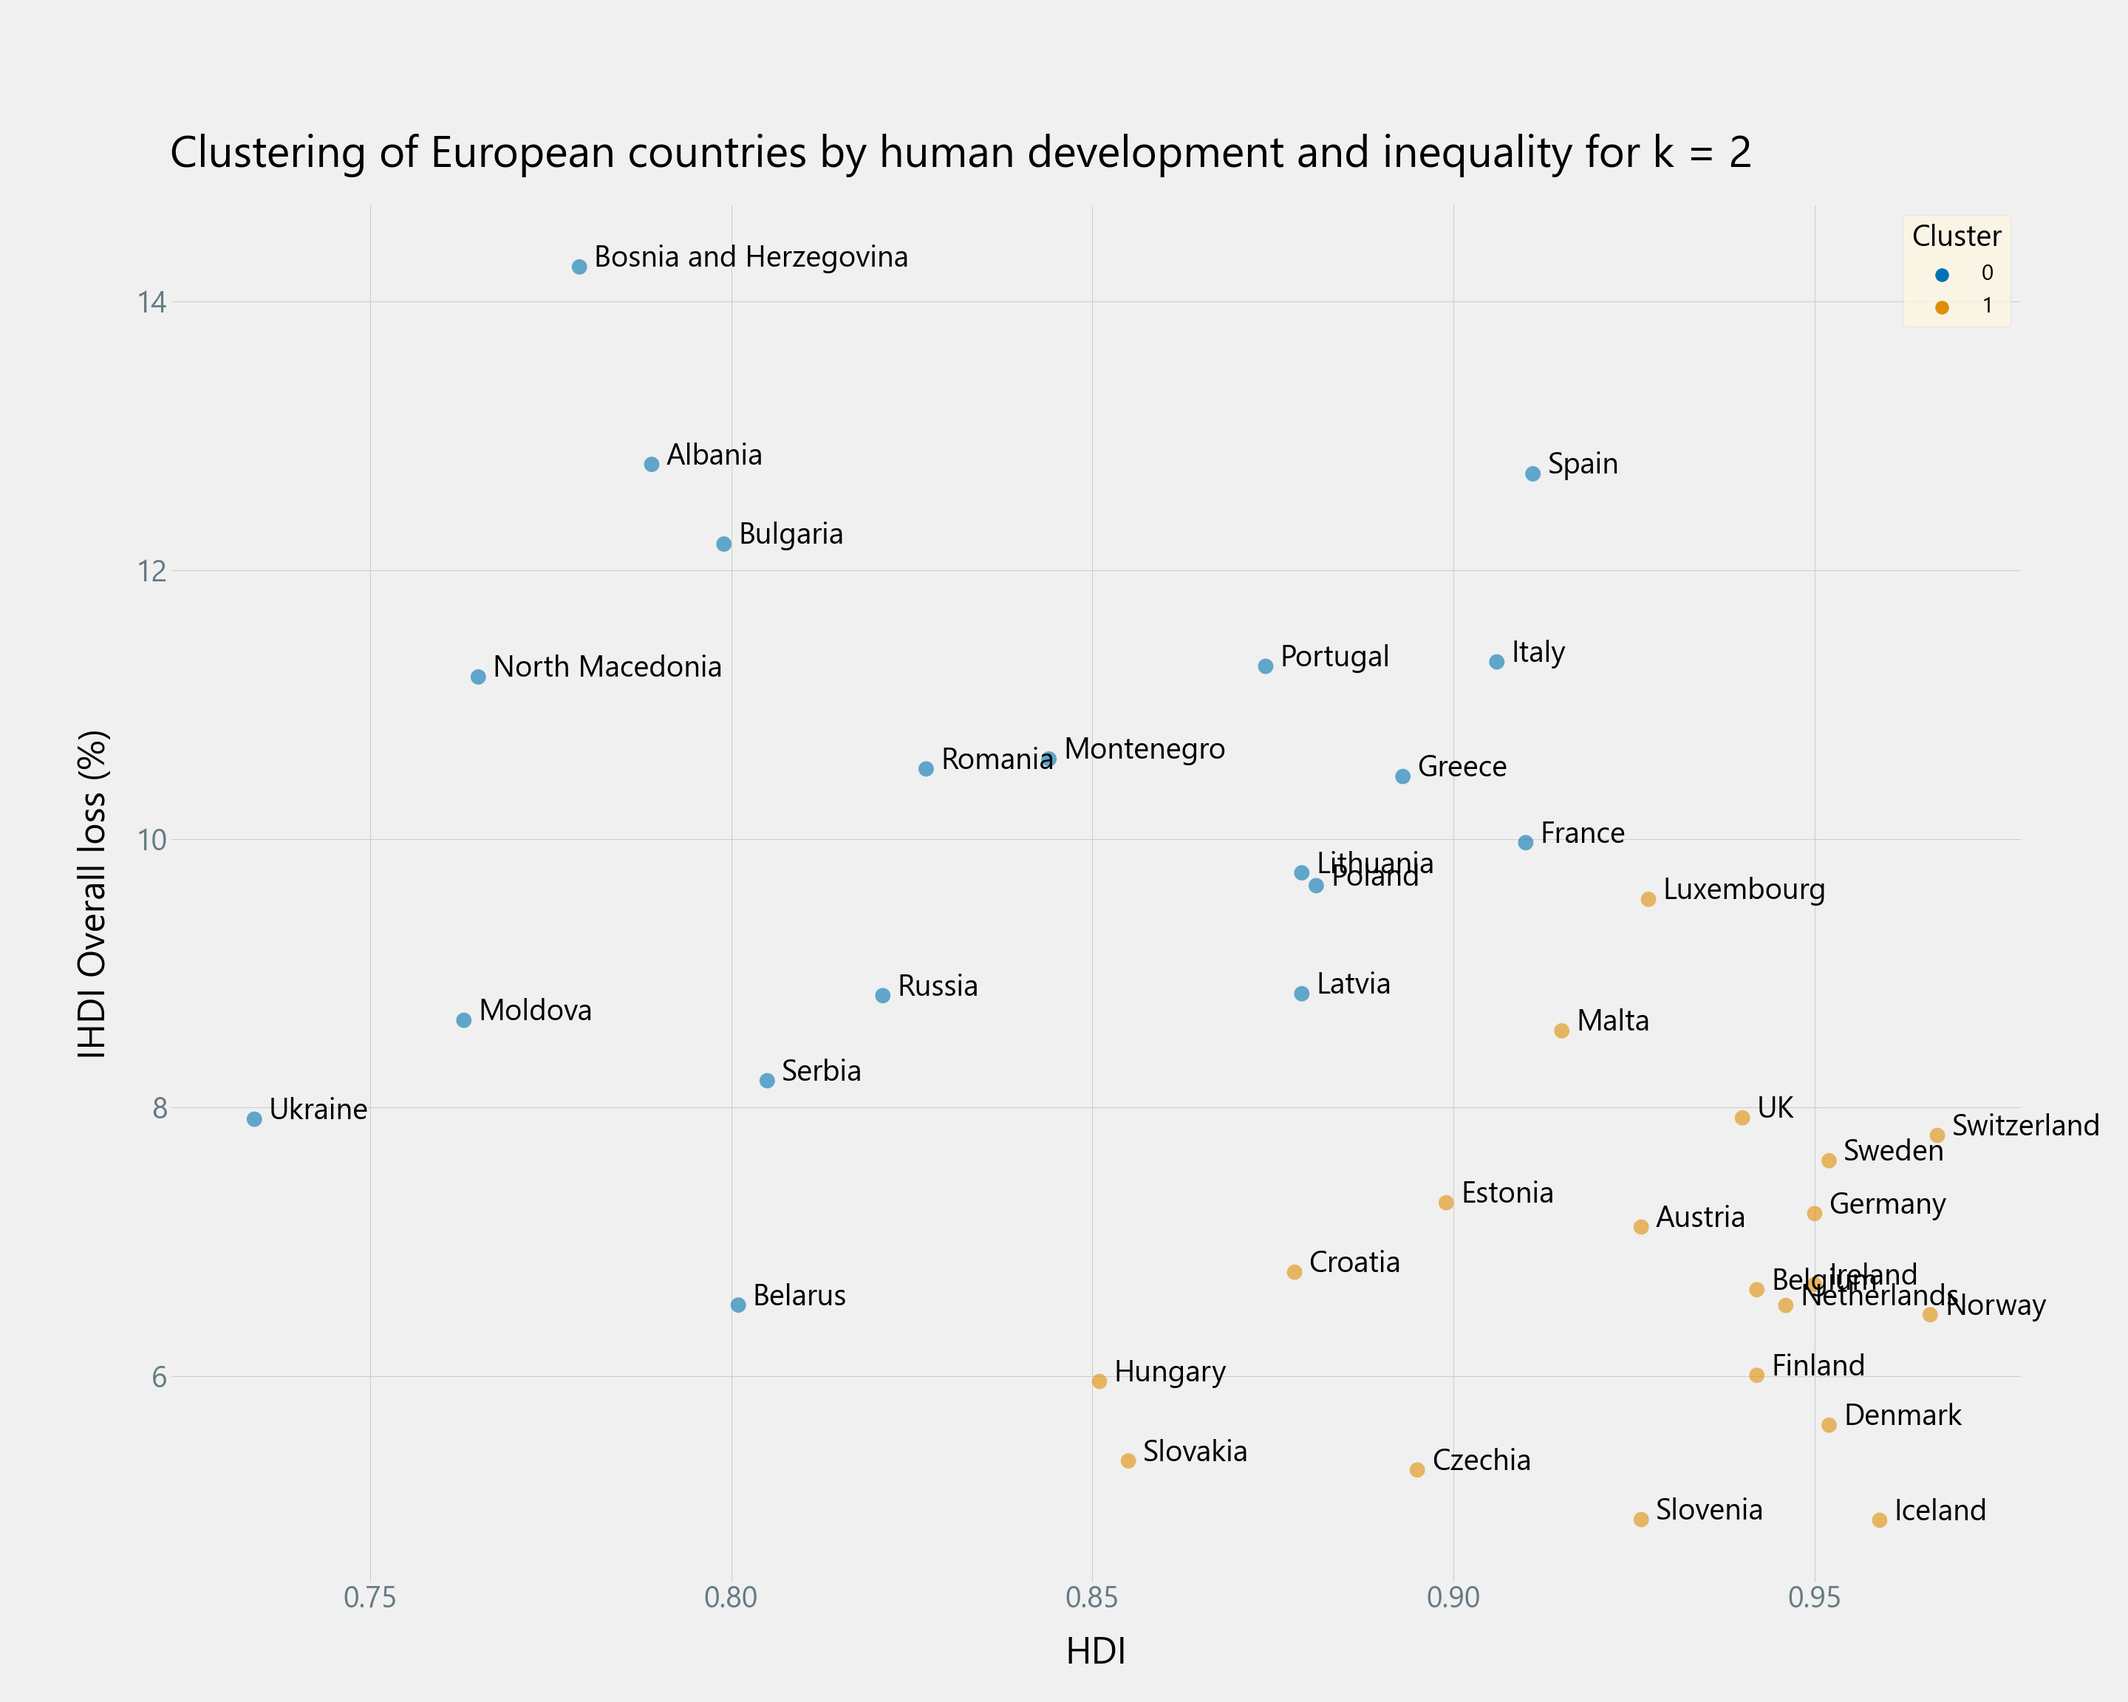
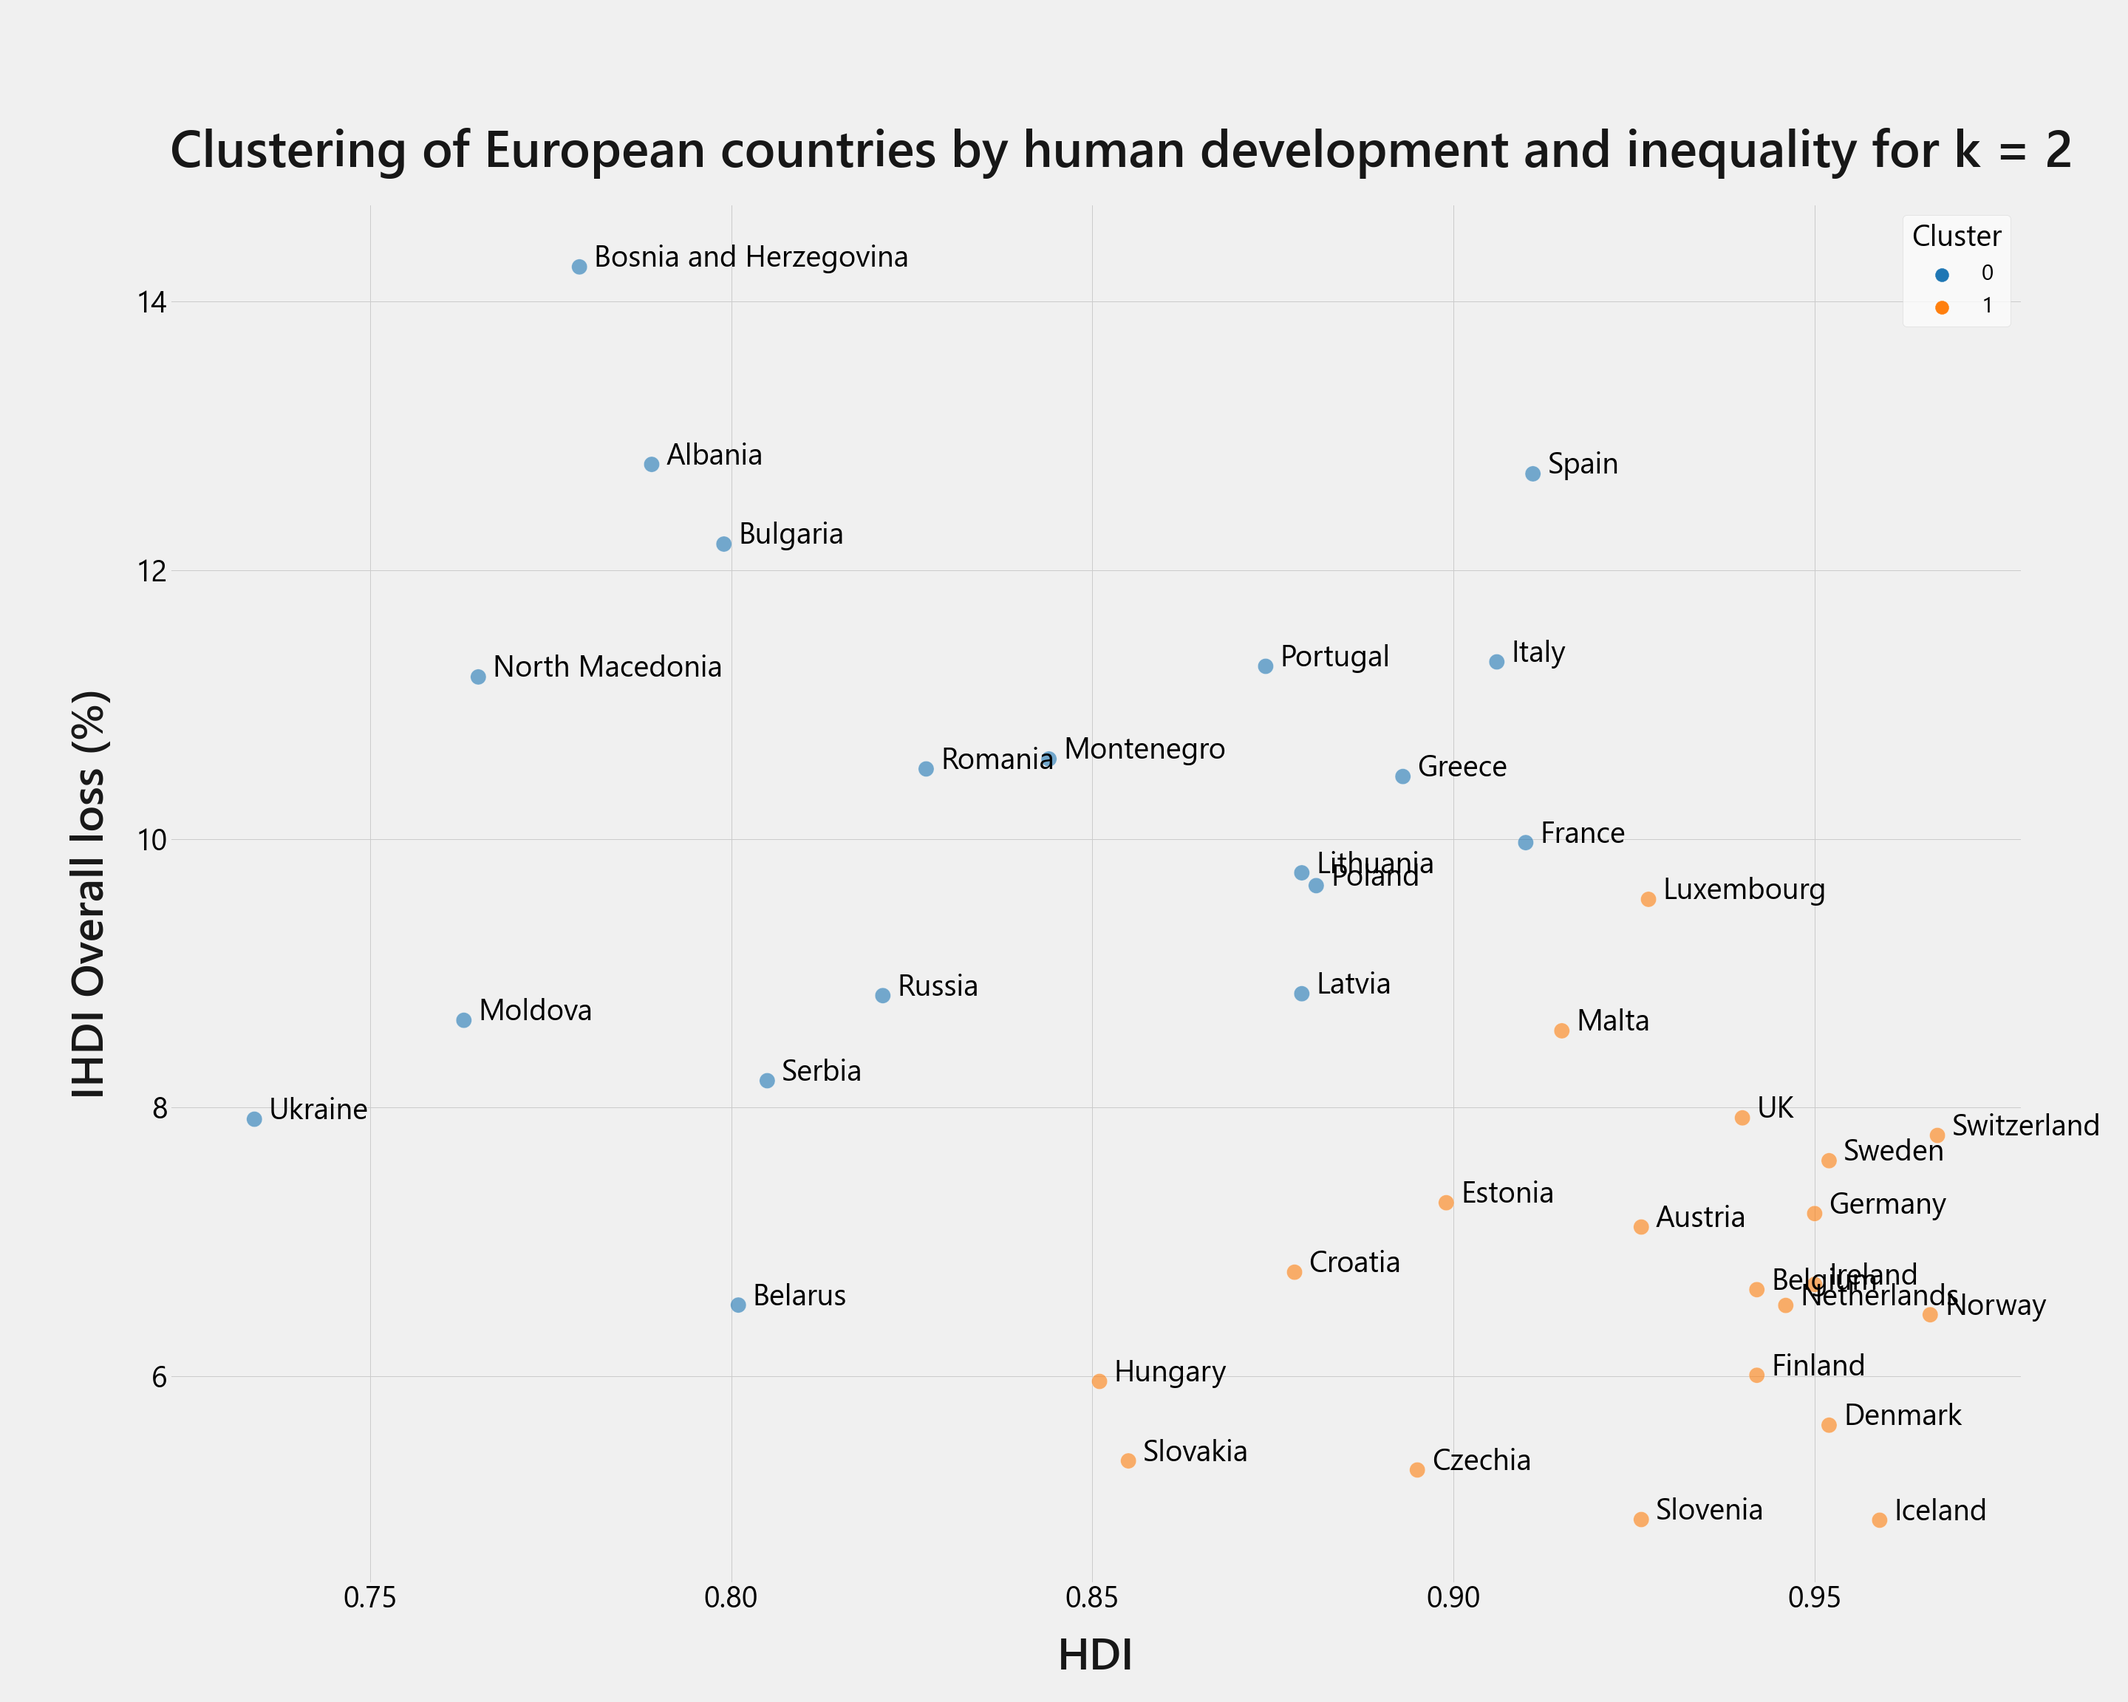
Adding readme and images

Changed region(s): [[0.0938, 0.0625, 0.9688, 0.125], [0.0312, 0.4062, 0.0625, 0.6562], [0.5, 0.9375, 0.5312, 1.0]]

diff --git a/code/main.py b/code/main.py
@@ -11,9 +11,6 @@ import matplotlib.pyplot as plt
 import seaborn as sns
 import os
 import re
-from IPython.display import display
-
-
 
 
 # Import and clean the data
@@ -90,9 +87,9 @@ def cluster_plot(df, cluster_set):
         alpha=0.6,
         legend='full'
     )
-    plt.title(title, fontsize = 60, pad = 50, loc = 'left', fontweight = 'Semibold')
-    plt.xlabel('HDI', fontsize = 50, labelpad = 30)
-    plt.ylabel('IHDI Overall loss (%)', fontsize = 50, labelpad = 30)
+    plt.title(title, fontsize = 70, pad = 50, loc = 'left', fontweight = 'semibold', color = '#171717')
+    plt.xlabel('HDI', fontsize = 60, labelpad = 30, fontweight = 'semibold', color = '#171717')
+    plt.ylabel('IHDI Overall loss (%)', fontsize = 60, labelpad = 30, fontweight = 'semibold', color = '#171717')
     
     # Adjust font size of the tick labels
     plt.tick_params(axis='both', which='major', labelsize=40)  # Adjust font size for x and y axes
@@ -104,11 +101,11 @@ def cluster_plot(df, cluster_set):
         plt.text(x = point['HDI'] + 0.002, y = point['JitteredY'], s = str(point['ShortName']),
                  fontsize=40)  # Adjust label size for better readability
             
-    plt.legend(title='Cluster', title_fontsize = 40, fontsize = 30, markerscale = 3,
+    plt.legend(title='Cluster', title_fontsize = 40, fontsize = 30, markerscale = 3, 
                frameon=True, facecolor='#FCFCFC')
     
     # Define the path to save the file, creating directories if necessary
-    plt.savefig('viz/plot {cluster_set}.png')  # Save the figure
+    plt.savefig(f'viz/plot {cluster_set}.png')  # Save the figure
 
     plt.show()
 
@@ -196,12 +193,12 @@ scatter = sns.lineplot(
 
 #plt.plot(range(1,11), sse, linewidth = 5)
 plt.xticks(range(1,11))
-plt.title('Elbow plot for K-means clustering of European countries', fontsize = 60, pad = 50)
-plt.xlabel('Number of clusters', fontsize = 50, labelpad = 30)
-plt.ylabel('SSE', fontsize = 50, labelpad = 30)
+plt.title('Elbow plot for K-means clustering of European countries', fontsize = 70, pad = 50, fontweight = 'semibold', loc = 'left', color = '#171717')
+plt.xlabel('Number of clusters', fontsize = 60, labelpad = 30, fontweight = 'semibold', color = '#171717')
+plt.ylabel('SSE', fontsize = 60, labelpad = 30, fontweight = 'semibold', color = '#171717')
 plt.axvline(x = kl.elbow, color = "orange", linestyle = "dotted", linewidth = 10) # adding line where elbow point creases
 # Adjust font size of the tick labels
-plt.tick_params(axis='both', which='major', labelsize=30)  # Adjust font size for x and y axes
+plt.tick_params(axis='both', which='major', labelsize=40)  # Adjust font size for x and y axes
 plt.savefig('viz/elbow plot.png')  # Save the figure
 plt.show()
 
@@ -212,12 +209,12 @@ scatter = sns.lineplot(
         x=range(2,11), y=sl_scores, 
         linewidth=10)
 plt.xticks(range(2,11))
-plt.title('Silhouette scores for K-means clustering of European countries', fontsize = 60, pad = 50)
-plt.xlabel('Number of clusters', fontsize = 50, labelpad = 30)
-plt.ylabel('Silhouette Coefficient', fontsize = 50, labelpad = 30)
+plt.title('Silhouette scores for K-means clustering of European countries', color = '#171717', fontsize = 70, pad = 50, fontweight = 'semibold', loc = 'left')
+plt.xlabel('Number of clusters', fontsize = 60, labelpad = 30, fontweight = 'semibold', color = '#171717')
+plt.ylabel('Silhouette Coefficient', fontsize = 60, labelpad = 30, fontweight = 'semibold', color = '#171717')
 plt.axvline(x = sl_max, color = "orange", linestyle = "dotted", linewidth = 10) # adding line where elbow point creases
 # Adjust font size of the tick labels
-plt.tick_params(axis='both', which='major', labelsize=30)  # Adjust font size for x and y axes
+plt.tick_params(axis='both', which='major', labelsize=40)  # Adjust font size for x and y axes
 plt.savefig('viz/silhouette score plot.png')  # Save the figure
 plt.show()
 
@@ -288,16 +285,16 @@ comparison_results = []
 for i in comparison_dict:
     definition = df_remap[comparison_dict[i]]
     cluster_set = df_remap[i]
-    ari = adjusted_rand_score(definition,cluster_set) # Calculate the Adjusted Rand Index for the pairing
-    homogeneity = homogeneity_score(definition,cluster_set) # Measures if each cluster contains only members of a single class.
-    completeness = completeness_score(definition,cluster_set) # Measures if all members of a given class are assigned to the same cluster.
-    v_measure = v_measure_score(definition,cluster_set) # Harmonic mean of homogeneity and completeness.
+    ari = round(adjusted_rand_score(definition,cluster_set),2) # Calculate the Adjusted Rand Index for the pairing
+    homogeneity = round(homogeneity_score(definition,cluster_set),2) # Measures if each cluster contains only members of a single class.
+    completeness = round(completeness_score(definition,cluster_set),2) # Measures if all members of a given class are assigned to the same cluster.
+    v_measure = round(v_measure_score(definition,cluster_set),2) # Harmonic mean of homogeneity and completeness.
     
     comparison_results.append({
         'definition': i, 'cluster_set' : comparison_dict[i],
         'ari':ari, 'homogeneity': homogeneity, 'completeness': completeness, 'v_measure': v_measure})
     
 comparison_results_df = pd.DataFrame(comparison_results)
-display(comparison_results_df)
+print(comparison_results_df.to_markdown(index = False))
 
 

diff --git a/code/mapping.py b/code/mapping.py
@@ -12,7 +12,8 @@ Created on Wed May 22 19:15:44 2024
 import pandas as pd
 import geopandas as gpd
 import matplotlib.pyplot as plt
-from matplotlib.colors import ListedColormap
+import matplotlib.colors as mcolors
+
 
 
 ## Import cluster dataset
@@ -36,30 +37,78 @@ europe['NAME_LONG'] = europe['NAME_LONG'].replace(name_mapping)
 europe_clusters = europe.merge(df, how='left', left_on='NAME_LONG', right_on='ShortName')
 
 ### Creating maps
+## Maps of the clusters
+# Define the number of categories for each map
+num_categories_list = [2, 4, 6]
+
+# Define the base colormap
+base_cmap = plt.get_cmap('Accent')
+
+# Create custom colormaps for each number of categories
+custom_cmaps = [mcolors.ListedColormap(base_cmap.colors[:num_categories]) for num_categories in num_categories_list]
+
 # Create subplots
 fig, axes = plt.subplots(1, 3, figsize=(60, 20))
-
 plt.style.use("fivethirtyeight")
 
 # Plot each cluster column in its respective subplot
 columns = ['k2', 'k4', 'k6']
 titles = ['k = 2', 'k = 4', 'k = 6']
 
-for ax, column, title in zip(axes, columns, titles):
-    europe_clusters.boundary.plot(ax=ax, linewidth=1, edgecolor='darkgrey')
-    europe_clusters.plot(column=column, ax=ax, legend=False, categorical=True, cmap='Paired',
-                         missing_kwds={"color": "lightgrey"}, edgecolor='lightgrey')
-    bbox = (-20, 33, 50, 72) # Limit the bounding box of the plot to Europe (minx, miny, maxx, maxy)
+for ax, column, title, cmap in zip(axes, columns, titles, custom_cmaps):
+    europe_clusters.boundary.plot(ax=ax, linewidth=1, edgecolor='#171717')
+    europe_clusters.plot(column=column, ax=ax, legend=False, categorical=True, cmap=cmap,
+                         missing_kwds={"color": "lightgrey"})
+    bbox = (-20, 33, 50, 72)  # Limit the bounding box of the plot to Europe (minx, miny, maxx, maxy)
     ax.set_xlim(bbox[0], bbox[2])
     ax.set_ylim(bbox[1], bbox[3])
-    ax.set_title(title, fontsize = 50, fontweight = 'semibold')
+    ax.set_title(title, fontsize=50, fontweight='semibold', color = '#171717')
     ax.axis('off')
     ax.grid(False)
 
 # Customize the overall plot
 plt.suptitle('Clustering European countries along human development and inequality',
-             fontsize=80, fontweight='semibold', x=0.05, ha='left')
+             fontsize=80, fontweight='semibold', x=0.02, ha='left', color = '#171717', y= 0.99)
 plt.tight_layout()
-#plt.subplots_adjust(top=0.99)
-plt.savefig('viz/cluster maps.png')  # Save the figure
+plt.subplots_adjust(top=0.95)
+plt.savefig('viz/cluster_maps.png')  # Save the figure
+plt.show()
+
+## Maps of pre-existing definitions
+# Define the number of categories for each map
+num_categories_list = [2, 4, 4, 6]
+
+# Define the base colormap
+base_cmap = plt.get_cmap('Accent')
+
+# Create custom colormaps for each number of categories
+custom_cmaps = [mcolors.ListedColormap(base_cmap.colors[:num_categories]) for num_categories in num_categories_list]
+
+# Create subplots
+fig, axes = plt.subplots(2, 2, figsize=(21, 20))
+axes = axes.flatten()
+
+plt.style.use("fivethirtyeight")
+
+# Plot each cluster column in its respective subplot
+columns = ['Cold_War','EuroVoc','UN_Geoscheme','Personal']
+titles = ['Cold War (k=2)', 'EuroVoc (k=4)', 'UN Geoscheme (k=4)', 'Personal classification (k=6)']
+
+for ax, column, title, cmap in zip(axes, columns, titles, custom_cmaps):
+    europe_clusters.boundary.plot(ax=ax, linewidth=1, edgecolor='#171717')
+    europe_clusters.plot(column=column, ax=ax, legend=False, categorical=True, cmap=cmap,
+                         missing_kwds={"color": "lightgrey"})
+    bbox = (-20, 33, 50, 72)  # Limit the bounding box of the plot to Europe (minx, miny, maxx, maxy)
+    ax.set_xlim(bbox[0], bbox[2])
+    ax.set_ylim(bbox[1], bbox[3])
+    ax.set_title(title, fontsize=30, fontweight='semibold', color = '#171717')
+    ax.axis('off')
+    ax.grid(False)
+
+# Customize the overall plot
+plt.suptitle('Pre-existing definitions of European regional divisions',
+             fontsize=50, fontweight='semibold', x=0.02, ha='left', color = '#171717', y = 0.98)
+plt.tight_layout()
+plt.subplots_adjust(top=0.95)
+plt.savefig('viz/division_maps.png')  # Save the figure
 plt.show()

diff --git a/README.md b/README.md
@@ -1,2 +1,40 @@
 # clustering-europe
-K-means clustering project of European countries by human development and inequality
+
+**Using K-means clustering to see how European countries cluster together in terms of human development and societal inequality**
+
+![Image: Maps of European countries coloured by my k-means clustering results](viz/cluster_maps.png)
+
+The question of categorising Europe into regional divisions is as much determiend by economic history as it is by geography. Is Greece, a country further east than the Czech Republic, in Eastern Europe? Popular conceptions rooted in Cold War history would say it is in Western Europe.
+
+How far can social and economic factors go in producing a coherent regional classification of European countries? This project use K-means clustering to categorise European countries based on the distribution of two variables, human development and inequality. We compare these results to pre-existing definitions of European regional divisions to see how closely our geographically-agnostic unsupervised clustering method aligns.
+
+## Background
+The variables we are looking at - human development and inequality - are derived from the UN's inequality-adjusted Human Development Index (IHDI). "Human development" is calculated as an average of three factors: income per capita, life expectancy and years of schooling. Whereas "inequality" uses a form of the Atkinson index to measure inequalities across these three outcomes as a "percentage loss", which is removed from the country's human development score to yield the IHDI.
+
+The Atkinson index is distinguished from other inequality metrics (like the Gini coefficient) in that it assumes a diminising marginal utility. Have a look at **this repository** to explore how the Atkinson index works in more detail. 
+
+
+## Results
+### Determining *k*
+![Image: Elbow plot and Silhouette score plot](viz/determining%20k.png)
+### European clusters according to optimal *k* = 4
+![Image: Scatter plot of European countries by human development and inequality, coloured by k-means clustering results](viz/plot%20k4.png)
+
+### Comparing to pre-existing regional divisions of Europe 
+![Image: Maps of European countires coloured by pre-existing regional divisions of Europe](viz/division_maps.png)
+
+| definition   | cluster_set   |   ari |   homogeneity |   completeness |   v_measure |
+|:-------------|:--------------|------:|--------------:|---------------:|------------:|
+| Cold_War     | k = 2            |  0.17 |          0.14 |           0.14 |        0.14 |
+| UN_Geoscheme | k = 4            |  0.18 |          0.32 |           0.3  |        0.31 |
+| EuroVoc      | k = 4            |  0.16 |          0.38 |           0.39 |        0.39 |
+| Personal     | k = 6            |  0.35 |          0.61 |           0.6  |        0.6  |
+
+## Repository
+### /code/
+- **main.py**  - Code for *k*-means clustering and visualisations 
+- **mapping.py** - Mapping of *k*-means clustering results
+### /data/
+- **IHDI dataset 2022 Europe.csv** - Input dataset containing European countries according to pre-existing regional definitions
+- **european clusters.csv** - Output dataset containing results of *k*-means clustering
+- **/borders/** - Shape files for global sovereign states (for use in `mapping.py`)
